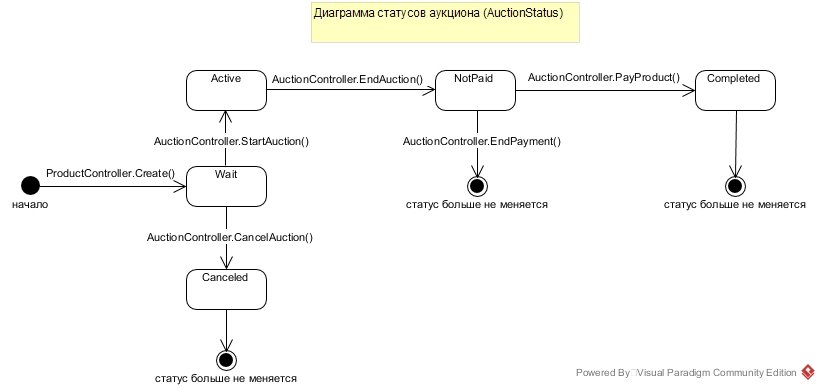
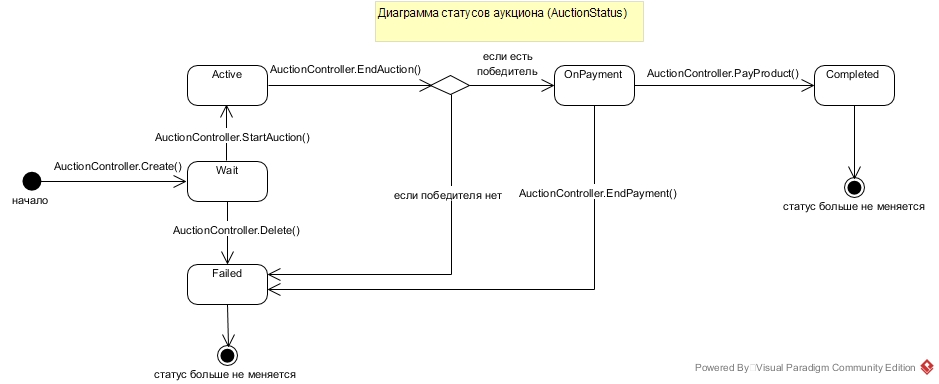
Добавил enum PaidStatus, подправил таблицы

diff --git a/Auctionator/Auctionator/Data/Migrations/20181201150739_auction-0.9.cs b/Auctionator/Auctionator/Data/Migrations/20181201150739_auction-0.9.cs
@@ -1,0 +1,58 @@
+using Microsoft.EntityFrameworkCore.Migrations;
+
+namespace Auctionator.Data.Migrations
+{
+    public partial class auction09 : Migration
+    {
+        protected override void Up(MigrationBuilder migrationBuilder)
+        {
+            migrationBuilder.AlterColumn<double>(
+                name: "Price",
+                table: "Products",
+                nullable: true,
+                oldClrType: typeof(double));
+
+            migrationBuilder.AlterColumn<string>(
+                name: "Path",
+                table: "ProductPhotos",
+                nullable: false,
+                oldClrType: typeof(string),
+                oldNullable: true);
+
+            migrationBuilder.AddColumn<double>(
+                name: "LastBet",
+                table: "Auctions",
+                nullable: true);
+
+            migrationBuilder.AddColumn<int>(
+                name: "PaidStatus",
+                table: "Auctions",
+                nullable: false,
+                defaultValue: 0);
+        }
+
+        protected override void Down(MigrationBuilder migrationBuilder)
+        {
+            migrationBuilder.DropColumn(
+                name: "LastBet",
+                table: "Auctions");
+
+            migrationBuilder.DropColumn(
+                name: "PaidStatus",
+                table: "Auctions");
+
+            migrationBuilder.AlterColumn<double>(
+                name: "Price",
+                table: "Products",
+                nullable: false,
+                oldClrType: typeof(double),
+                oldNullable: true);
+
+            migrationBuilder.AlterColumn<string>(
+                name: "Path",
+                table: "ProductPhotos",
+                nullable: true,
+                oldClrType: typeof(string));
+        }
+    }
+}

diff --git a/Auctionator/Auctionator/Data/Migrations/20181201150739_auction-0.9.Designer.cs b/Auctionator/Auctionator/Data/Migrations/20181201150739_auction-0.9.Designer.cs
@@ -10,7 +10,7 @@ using Microsoft.EntityFrameworkCore.Storage.ValueConversion;
 namespace Auctionator.Data.Migrations
 {
     [DbContext(typeof(ApplicationDbContext))]
-    [Migration("20181130235102_auction-0.9")]
+    [Migration("20181201150739_auction-0.9")]
     partial class auction09
     {
         protected override void BuildTargetModel(ModelBuilder modelBuilder)
@@ -30,6 +30,10 @@ namespace Auctionator.Data.Migrations
                     b.Property<DateTime>("EndDateTime");
 
                     b.Property<DateTime>("EndPayDateTime");
+
+                    b.Property<double?>("LastBet");
+
+                    b.Property<int>("PaidStatus");
 
                     b.Property<int>("ProductId");
 
@@ -87,7 +91,7 @@ namespace Auctionator.Data.Migrations
 
                     b.Property<string>("OwnerId");
 
-                    b.Property<double>("Price");
+                    b.Property<double?>("Price");
 
                     b.Property<string>("ShortDescription");
 

diff --git a/Auctionator/Auctionator/Services/Implementation/AuctionService.cs b/Auctionator/Auctionator/Services/Implementation/AuctionService.cs
@@ -64,7 +64,7 @@ namespace Auctionator.Services.Implementation
 
             auc.StartDateTime = auctionDto.StartDateTime;
             auc.EndDateTime = auctionDto.StartDateTime.AddDays(3);
-            auc.Status = auctionDto.Status == Enums.AuctionStatus.Canceled ? Enums.AuctionStatus.Canceled : auctionDto.StartDateTime > System.DateTime.Now ? Enums.AuctionStatus.Wait : Enums.AuctionStatus.Active;
+            auc.Status = auctionDto.Status == Enums.AuctionStatus.Failed ? Enums.AuctionStatus.Failed : auctionDto.StartDateTime > System.DateTime.Now ? Enums.AuctionStatus.Wait : Enums.AuctionStatus.Active;
             auc.StartPrice = auctionDto.StartPrice;
 
             await _db.SaveChangesAsync();

diff --git a/Auctionator/Auctionator/Data/Migrations/ApplicationDbContextModelSnapshot.cs b/Auctionator/Auctionator/Data/Migrations/ApplicationDbContextModelSnapshot.cs
@@ -29,6 +29,10 @@ namespace Auctionator.Data.Migrations
 
                     b.Property<DateTime>("EndPayDateTime");
 
+                    b.Property<double?>("LastBet");
+
+                    b.Property<int>("PaidStatus");
+
                     b.Property<int>("ProductId");
 
                     b.Property<DateTime>("StartDateTime");
@@ -85,7 +89,7 @@ namespace Auctionator.Data.Migrations
 
                     b.Property<string>("OwnerId");
 
-                    b.Property<double>("Price");
+                    b.Property<double?>("Price");
 
                     b.Property<string>("ShortDescription");
 

diff --git a/Auctionator/Auctionator/Models/Product.cs b/Auctionator/Auctionator/Models/Product.cs
@@ -10,7 +10,7 @@ namespace Auctionator.Models
     {
         public int Id { get; set; }
         public string Name { get; set; }
-        public double Price { get; set; }
+        public double? Price { get; set; }
         public IList<ProductPhoto> Photos { get; set; }
         public string Description { get; set; }
         public string ShortDescription { get; set; }

diff --git a/Auctionator/Auctionator/Enums/PaidStatus.cs b/Auctionator/Auctionator/Enums/PaidStatus.cs
@@ -1,0 +1,13 @@
+using System;
+using System.Collections.Generic;
+using System.Linq;
+using System.Threading.Tasks;
+
+namespace Auctionator.Enums
+{
+    public enum PaidStatus
+    {
+        NotPaid = 1,
+        Paid
+    }
+}

diff --git a/Auctionator/Auctionator/Enums/AuctionStatus.cs b/Auctionator/Auctionator/Enums/AuctionStatus.cs
@@ -4,8 +4,8 @@ namespace Auctionator.Enums
     {
         Wait = 1,
         Active,
-        NotPaid,
+        OnPayment,
         Completed,
-        Canceled
+        Failed
     }
 }
